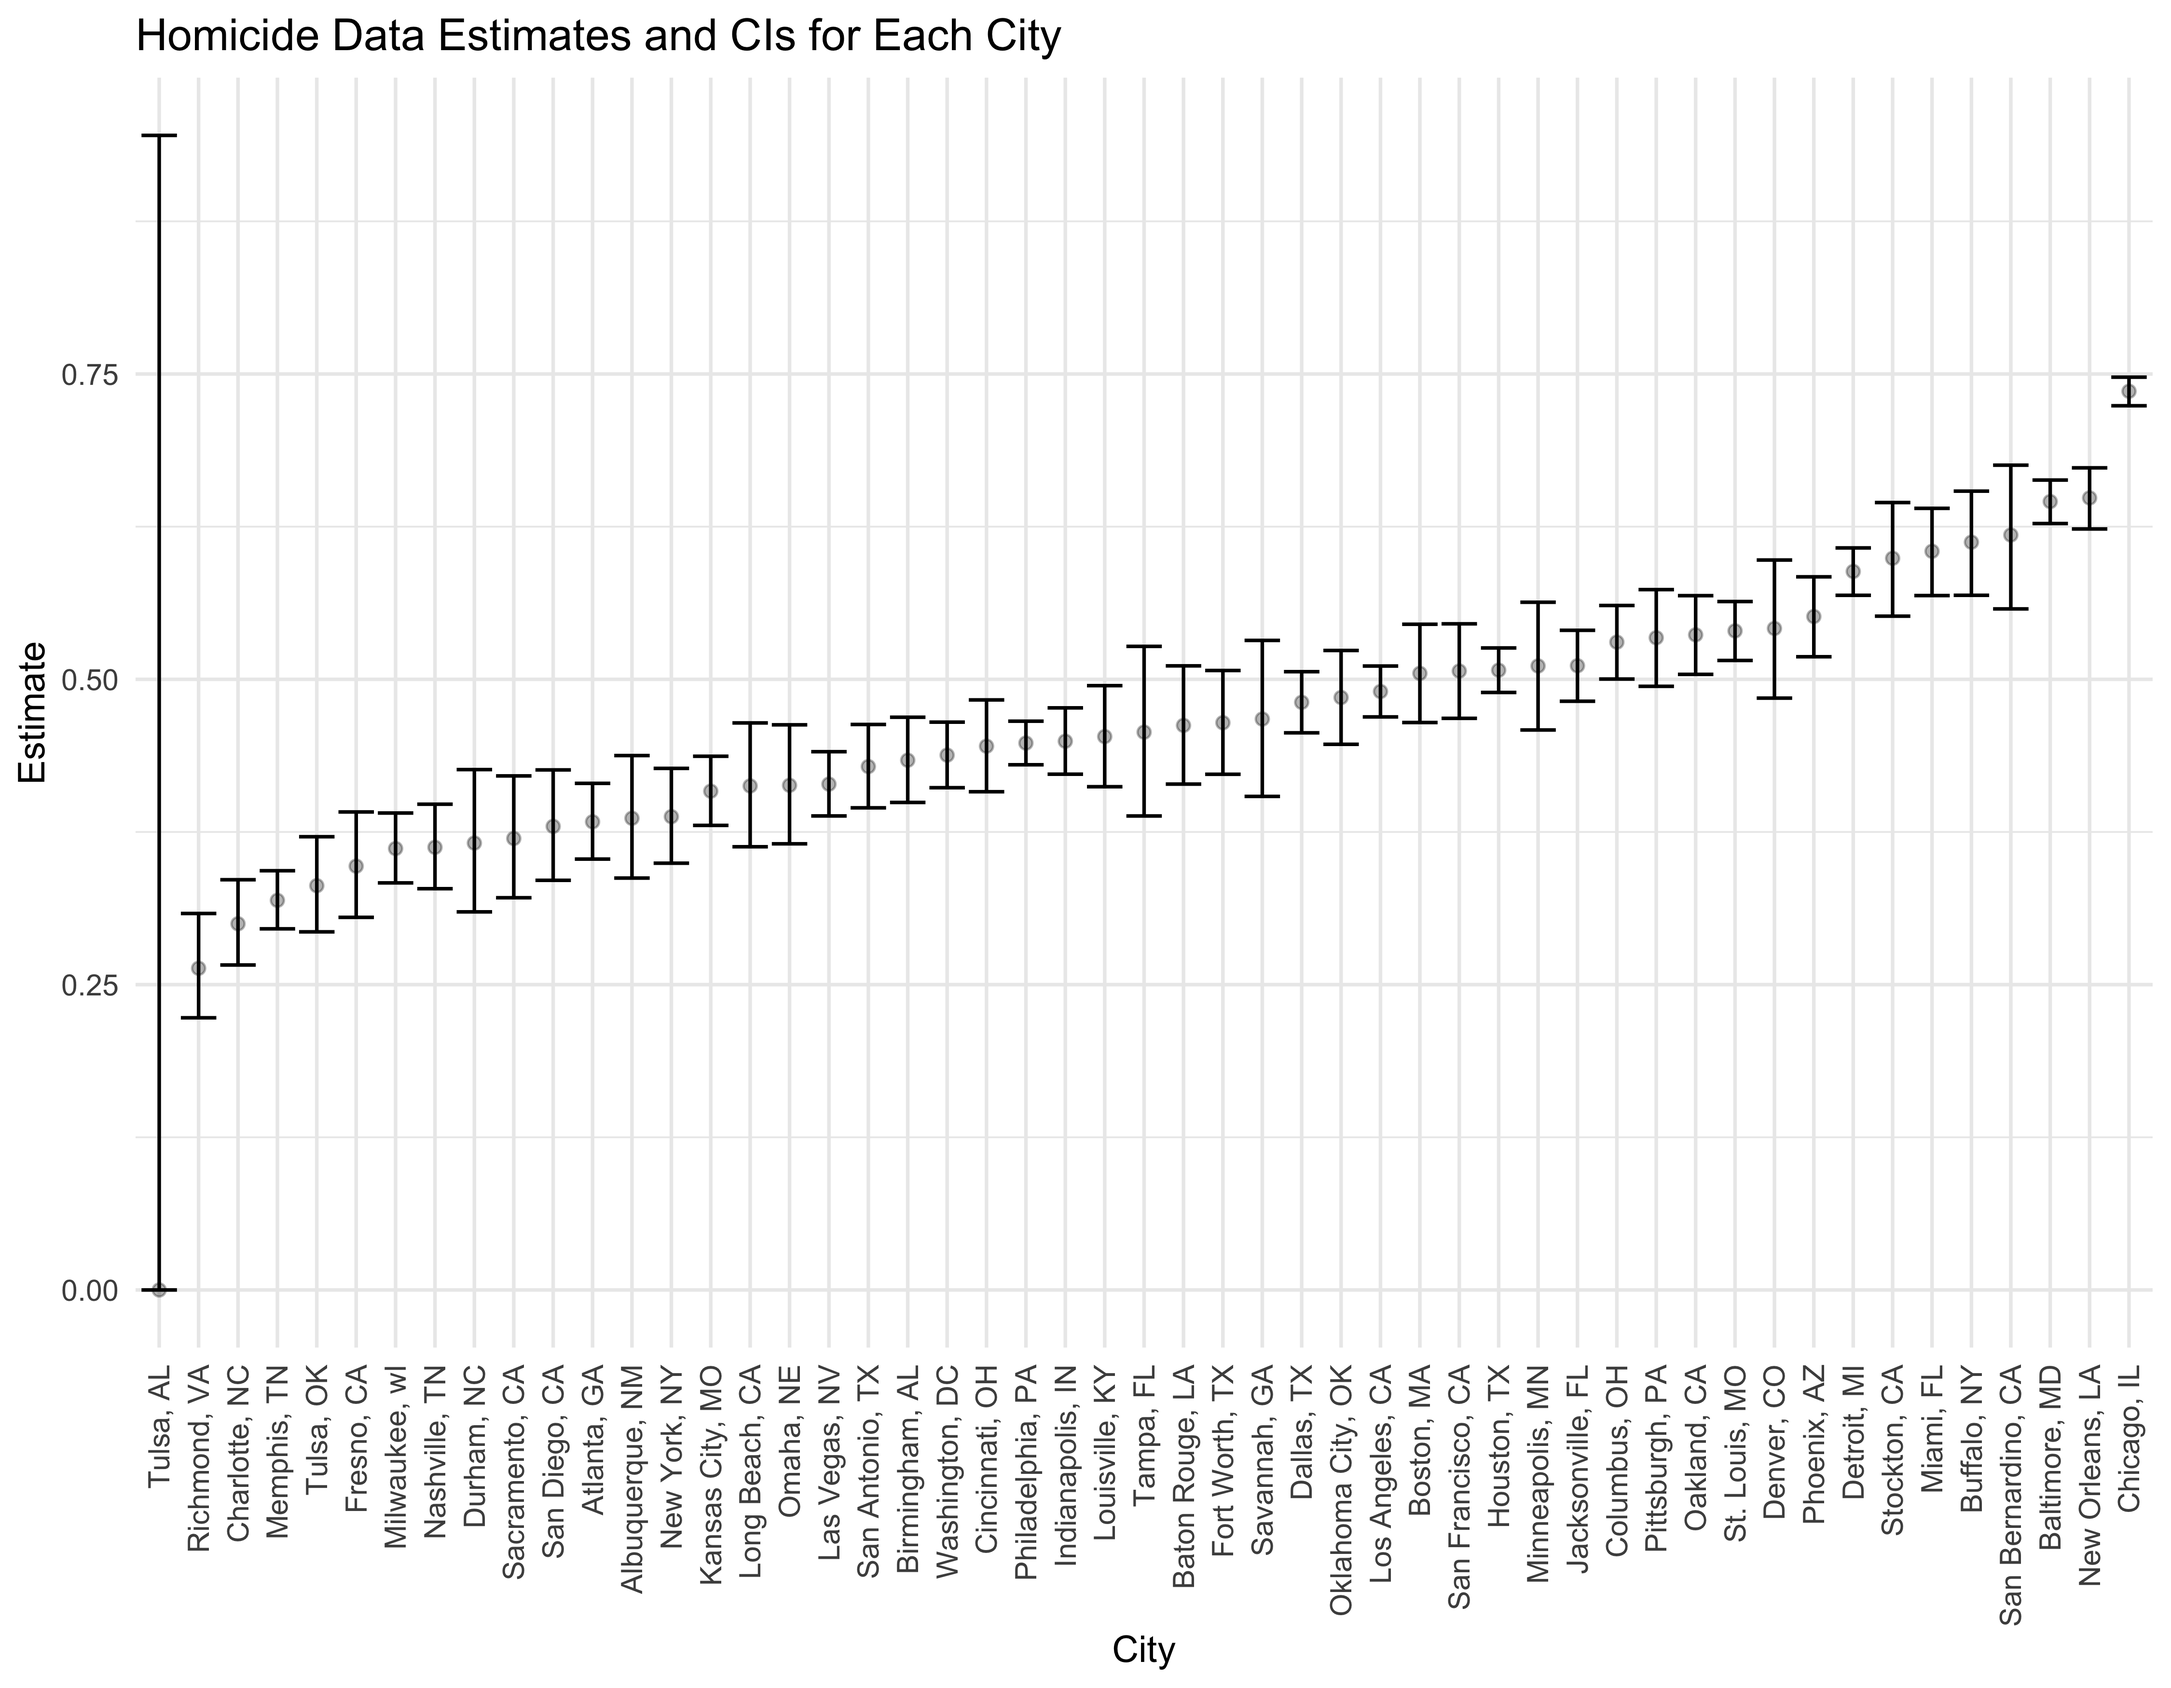
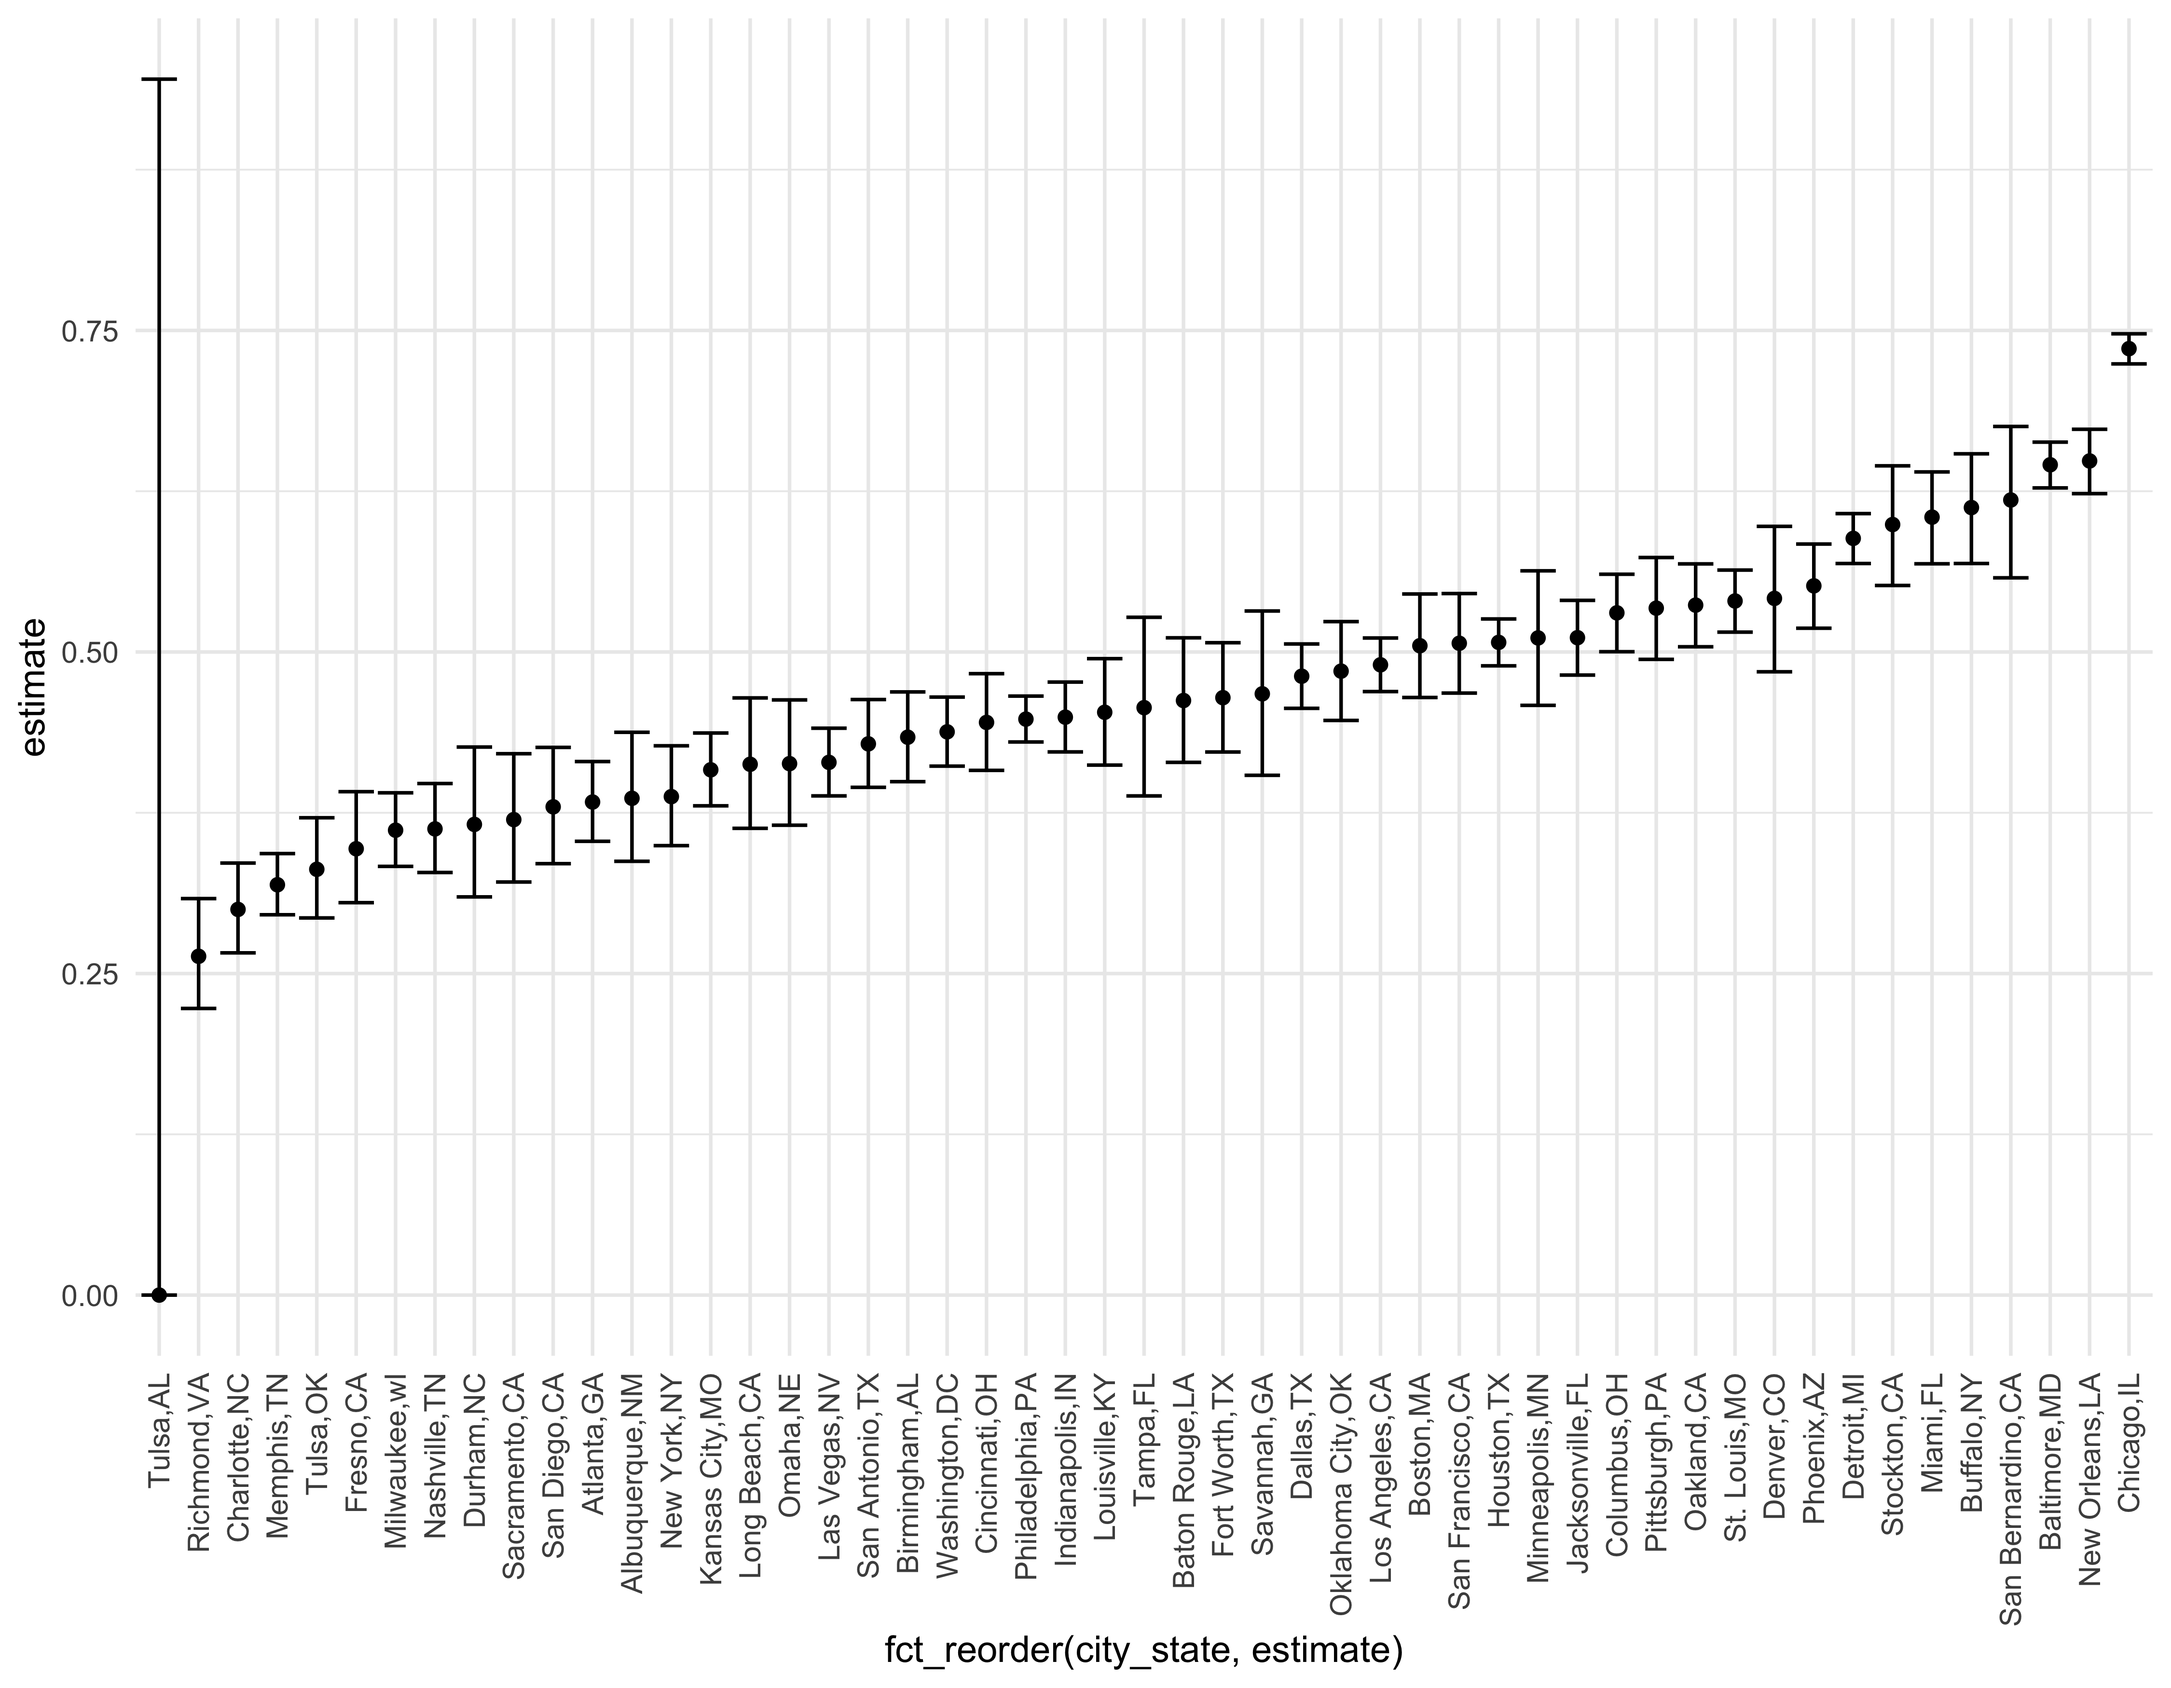
summarize for problem-2, saving R object

diff --git a/p8105_hw5_kb3246.md b/p8105_hw5_kb3246.md
@@ -27,84 +27,42 @@ homicide_raw =
 
 ## Summary of the dataset
 
-|                                                  |              |
-|:-------------------------------------------------|:-------------|
-| Name                                             | homicide_raw |
-| Number of rows                                   | 52179        |
-| Number of columns                                | 12           |
-| \_\_\_\_\_\_\_\_\_\_\_\_\_\_\_\_\_\_\_\_\_\_\_   |              |
-| Column type frequency:                           |              |
-| character                                        | 9            |
-| numeric                                          | 3            |
-| \_\_\_\_\_\_\_\_\_\_\_\_\_\_\_\_\_\_\_\_\_\_\_\_ |              |
-| Group variables                                  | None         |
-
-Data summary
-
-**Variable type: character**
-
-| skim_variable | n_missing | complete_rate | min | max | empty | n_unique | whitespace |
-|:--------------|----------:|--------------:|----:|----:|------:|---------:|-----------:|
-| uid           |         0 |             1 |   9 |  10 |     0 |    52179 |          0 |
-| victim_last   |         0 |             1 |   1 |  20 |     0 |    12687 |          0 |
-| victim_first  |         0 |             1 |   1 |  28 |     0 |    16640 |          0 |
-| victim_race   |         0 |             1 |   5 |   8 |     0 |        6 |          0 |
-| victim_age    |         0 |             1 |   1 |   7 |     0 |      102 |          0 |
-| victim_sex    |         0 |             1 |   4 |   7 |     0 |        3 |          0 |
-| city          |         0 |             1 |   5 |  14 |     0 |       50 |          0 |
-| state         |         0 |             1 |   2 |   2 |     0 |       28 |          0 |
-| disposition   |         0 |             1 |  14 |  21 |     0 |        3 |          0 |
-
-**Variable type: numeric**
-
-| skim_variable | n_missing | complete_rate |        mean |         sd |          p0 |         p25 |         p50 |         p75 |          p100 | hist  |
-|:--------------|----------:|--------------:|------------:|-----------:|------------:|------------:|------------:|------------:|--------------:|:------|
-| reported_date |         0 |             1 | 20130899.16 | 1123419.63 | 20070101.00 | 20100318.00 | 20121216.00 | 20150911.00 | 201511105\.00 | ▇▁▁▁▁ |
-| lat           |        60 |             1 |       37.03 |       4.35 |       25.73 |       33.77 |       38.52 |       40.03 |         45.05 | ▁▅▅▇▅ |
-| lon           |        60 |             1 |      -91.47 |      13.75 |     -122.51 |      -96.00 |      -87.71 |      -81.76 |        -71.01 | ▃▁▃▇▅ |
-
 -   The `homicide` dataset has 52179 rows and 12 columns.
 -   It has the following variables: uid, reported_date, victim_last,
     victim_first, victim_race, victim_age, victim_sex, city, state, lat,
     lon, disposition
--   It provides details on the date of the homicide, the victims’ name,
-    age, sex, city and state.
--   It also had additional notes on the status of the case.
 
 ## Creating `city_state` variable and summarizing
 
 ``` r
 homicide_data = 
   homicide_raw%>%
-  unite("city_state", city:state, remove = FALSE, sep=", ") %>%
-  group_by(city_state) %>%
-  count(disposition, name = "total_dispositions")%>%
-  pivot_wider(
-    names_from= "disposition",
-    values_from= "total_dispositions"
-    )%>%
-  janitor::clean_names()%>% 
-  replace(is.na(.), 0)%>%
+  janitor::clean_names()%>%
   mutate(
-    total_homicides = closed_by_arrest+closed_without_arrest+open_no_arrest, 
-    unsolved_homicides = closed_without_arrest+open_no_arrest
+    city_state = str_c(city,state, sep = ","),
+    status = 
+      case_when(
+        disposition == "Closed without arrest" ~ "unsolved", 
+        disposition == "Open/No arrest" ~ "unsolved", 
+        disposition == "Closed by arrest" ~ "solved"
+      ))%>%
+  group_by(city_state)%>%
+  summarise(
+    total= n(), 
+    unsolved = sum(status=="unsolved")
   )
 ```
 
-## `prop.test` for Baltimore
+## `prop.test` for Baltimore and saving output as R object
 
 ``` r
-baltimore= 
-  prop.test(
-  homicide_data %>%  
-    filter(city_state == "Baltimore, MD") %>% 
-    pull(unsolved_homicides),
-  homicide_data %>%
-    filter(city_state == "Baltimore, MD") %>% 
-    pull(total_homicides)
-  ) %>% 
-  broom::tidy()%>%
-  select(estimate, conf.low,conf.high)
+prop.test(
+  homicide_data %>% filter(city_state == "Baltimore,MD") %>% 
+    pull(unsolved),
+  homicide_data %>% filter(city_state == "Baltimore,MD") %>% 
+    pull(total)) %>% 
+  broom::tidy()%>% 
+  saveRDS(., "./data/Baltimore_prop_test.rds")
 ```
 
 ## `prop.test` for each city
@@ -113,13 +71,30 @@ baltimore=
 homicide_data_pt = 
   homicide_data%>%
   mutate(
-    proportions = map2(.x = unsolved_homicides, .y = total_homicides, ~prop.test(x = .x, n = .y)),
-    tidied = map(.x = proportions, ~broom::tidy(.x))
+    prop_df =map2(.x = unsolved, .y = total, ~prop.test(x = .x, n = .y)),
+    tidied =map(.x = prop_df, ~broom::tidy(.x))
     ) %>% 
-  select(-proportions) %>% 
+  select(-prop_df) %>% 
   unnest(tidied) %>% 
   select(city_state, estimate, conf.low,conf.high)
+
+homicide_data_pt
 ```
+
+    ## # A tibble: 51 × 4
+    ##    city_state     estimate conf.low conf.high
+    ##    <chr>             <dbl>    <dbl>     <dbl>
+    ##  1 Albuquerque,NM    0.386    0.337     0.438
+    ##  2 Atlanta,GA        0.383    0.353     0.415
+    ##  3 Baltimore,MD      0.646    0.628     0.663
+    ##  4 Baton Rouge,LA    0.462    0.414     0.511
+    ##  5 Birmingham,AL     0.434    0.399     0.469
+    ##  6 Boston,MA         0.505    0.465     0.545
+    ##  7 Buffalo,NY        0.612    0.569     0.654
+    ##  8 Charlotte,NC      0.300    0.266     0.336
+    ##  9 Chicago,IL        0.736    0.724     0.747
+    ## 10 Cincinnati,OH     0.445    0.408     0.483
+    ## # … with 41 more rows
 
 ## Plot for estimates and CIs for each city
 
@@ -127,21 +102,19 @@ homicide_data_pt =
 homicide_plot = 
   homicide_data_pt%>% 
   ggplot(aes(x = fct_reorder(city_state, estimate), y = estimate))+ 
-  geom_point(alpha = 0.3)+
+  geom_point()+
   geom_errorbar(aes(ymin = conf.low, ymax = conf.high)) +
-  theme(axis.text.x = element_text(angle = 90, vjust = 0.5, hjust = 1))+
-  labs(
-    title = "Homicide Data Estimates and CIs for Each City", 
-    x = "City", 
-    y = "Estimate"
-  )
+  theme(axis.text.x = element_text(angle = 90, vjust = 0.5, hjust = 1))
+
+homicide_plot
+```
+
+<img src="p8105_hw5_kb3246_files/figure-gfm/plot-1.png" width="95%" />
+
+``` r
 ggsave(path = "results", "homicide_plot.pdf")
 ```
 
     ## Saving 9 x 7 in image
 
-``` r
-homicide_plot
-```
-
-<img src="p8105_hw5_kb3246_files/figure-gfm/plot-1.png" width="95%" />
+# Problem 3
